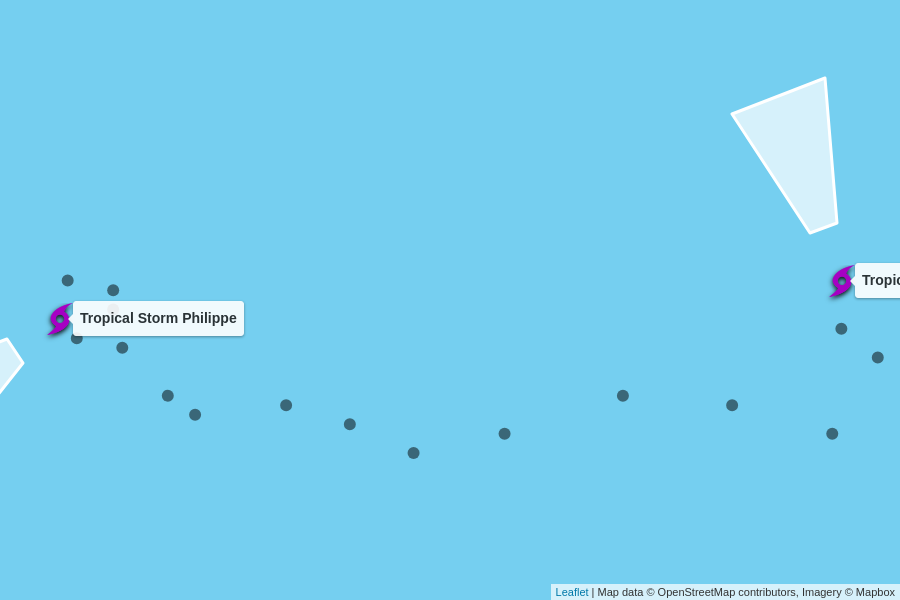
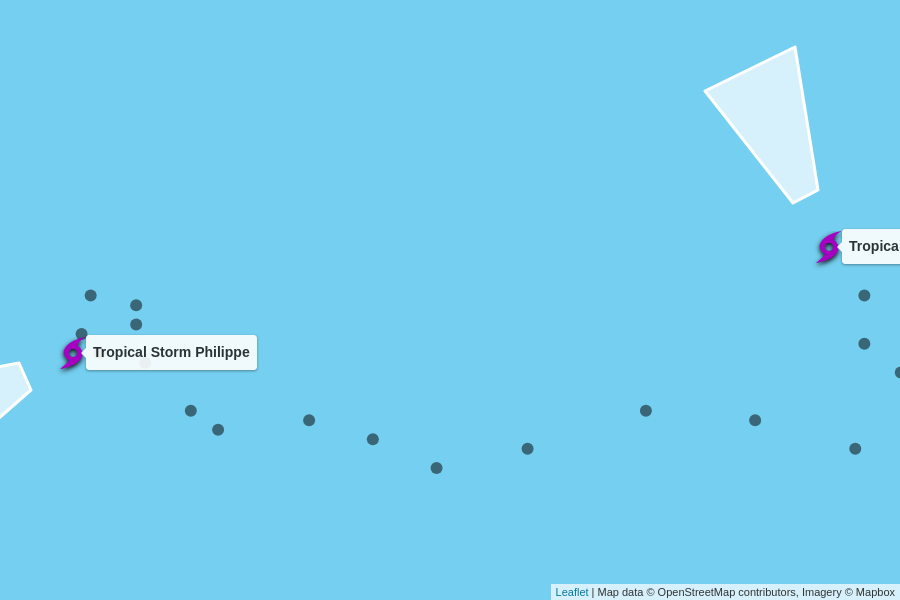
automatic update

diff --git a/docs/index.html b/docs/index.html
@@ -103,8 +103,8 @@
       <tr>
         <td colspan="6" class="storm category-0" >
           <h2>
-            Tropical Storm Philippe
-            <p class="updated">last updated <span data-time>2023-09-29T09:00:00.000Z</span></p>
+            Tropical Storm Rina
+            <p class="updated">last updated <span data-time>2023-09-29T15:00:00.000Z</span></p>
           </h2>
         </td>
       </tr>
@@ -120,20 +120,20 @@
       <tr>
         <td class="spacer"></td>
         <td>45 mph<br>0 mph since last update</td>
-        <td>1003 mb<br>-1 mb since last update</td>
+        <td>1003 mb<br>0 mb since last update</td>
         <td>
-          2 mph to the southwest
+          6 mph to the north-northwest
           <br/>
-          <span style="display: inline-block; font-size: 1.5em; transform: rotate(235deg);">↑</span>
+          <span style="display: inline-block; font-size: 1.5em; transform: rotate(335deg);">↑</span>
         </td>
-        <td><a href="https://raw.githubusercontent.com/mgwalker/atlantic-hurricanes/main/data/csv/AL172023.csv">AL172023.csv</a></td>
-        <td><a href="https://www.nhc.noaa.gov/archive/2023/PHILIPPE.shtml?">NHC advisories</a></td>
+        <td><a href="https://raw.githubusercontent.com/mgwalker/atlantic-hurricanes/main/data/csv/AL182023.csv">AL182023.csv</a></td>
+        <td><a href="https://www.nhc.noaa.gov/archive/2023/RINA.shtml?">NHC advisories</a></td>
       </tr>
-      <tr id="storm_AL172023" >
+      <tr id="storm_AL182023" >
         <td class="spacer">
         <td colspan="5">
           <figure>
-            <img src="AL172023.png">
+            <img src="AL182023.png">
             <figcaption>
               Map data &copy; <a href="https://www.openstreetmap.org/copyright">OpenStreetMap</a> contributors,
               Imagery &copy; <a href="https://www.mapbox.com/">Mapbox</a> |
@@ -147,8 +147,8 @@
       <tr>
         <td colspan="6" class="storm category-0" >
           <h2>
-            Tropical Storm Rina
-            <p class="updated">last updated <span data-time>2023-09-29T09:00:00.000Z</span></p>
+            Tropical Storm Philippe
+            <p class="updated">last updated <span data-time>2023-09-29T15:00:00.000Z</span></p>
           </h2>
         </td>
       </tr>
@@ -163,21 +163,21 @@
       </tr>
       <tr>
         <td class="spacer"></td>
-        <td>45 mph<br>+5 mph since last update</td>
-        <td>1003 mb<br>-2 mb since last update</td>
+        <td>45 mph<br>0 mph since last update</td>
+        <td>1003 mb<br>0 mb since last update</td>
         <td>
-          5 mph to the north-northwest
+          2 mph to the west-southwest
           <br/>
-          <span style="display: inline-block; font-size: 1.5em; transform: rotate(340deg);">↑</span>
+          <span style="display: inline-block; font-size: 1.5em; transform: rotate(245deg);">↑</span>
         </td>
-        <td><a href="https://raw.githubusercontent.com/mgwalker/atlantic-hurricanes/main/data/csv/AL182023.csv">AL182023.csv</a></td>
-        <td><a href="https://www.nhc.noaa.gov/archive/2023/RINA.shtml?">NHC advisories</a></td>
+        <td><a href="https://raw.githubusercontent.com/mgwalker/atlantic-hurricanes/main/data/csv/AL172023.csv">AL172023.csv</a></td>
+        <td><a href="https://www.nhc.noaa.gov/archive/2023/PHILIPPE.shtml?">NHC advisories</a></td>
       </tr>
-      <tr id="storm_AL182023" >
+      <tr id="storm_AL172023" >
         <td class="spacer">
         <td colspan="5">
           <figure>
-            <img src="AL182023.png">
+            <img src="AL172023.png">
             <figcaption>
               Map data &copy; <a href="https://www.openstreetmap.org/copyright">OpenStreetMap</a> contributors,
               Imagery &copy; <a href="https://www.mapbox.com/">Mapbox</a> |
